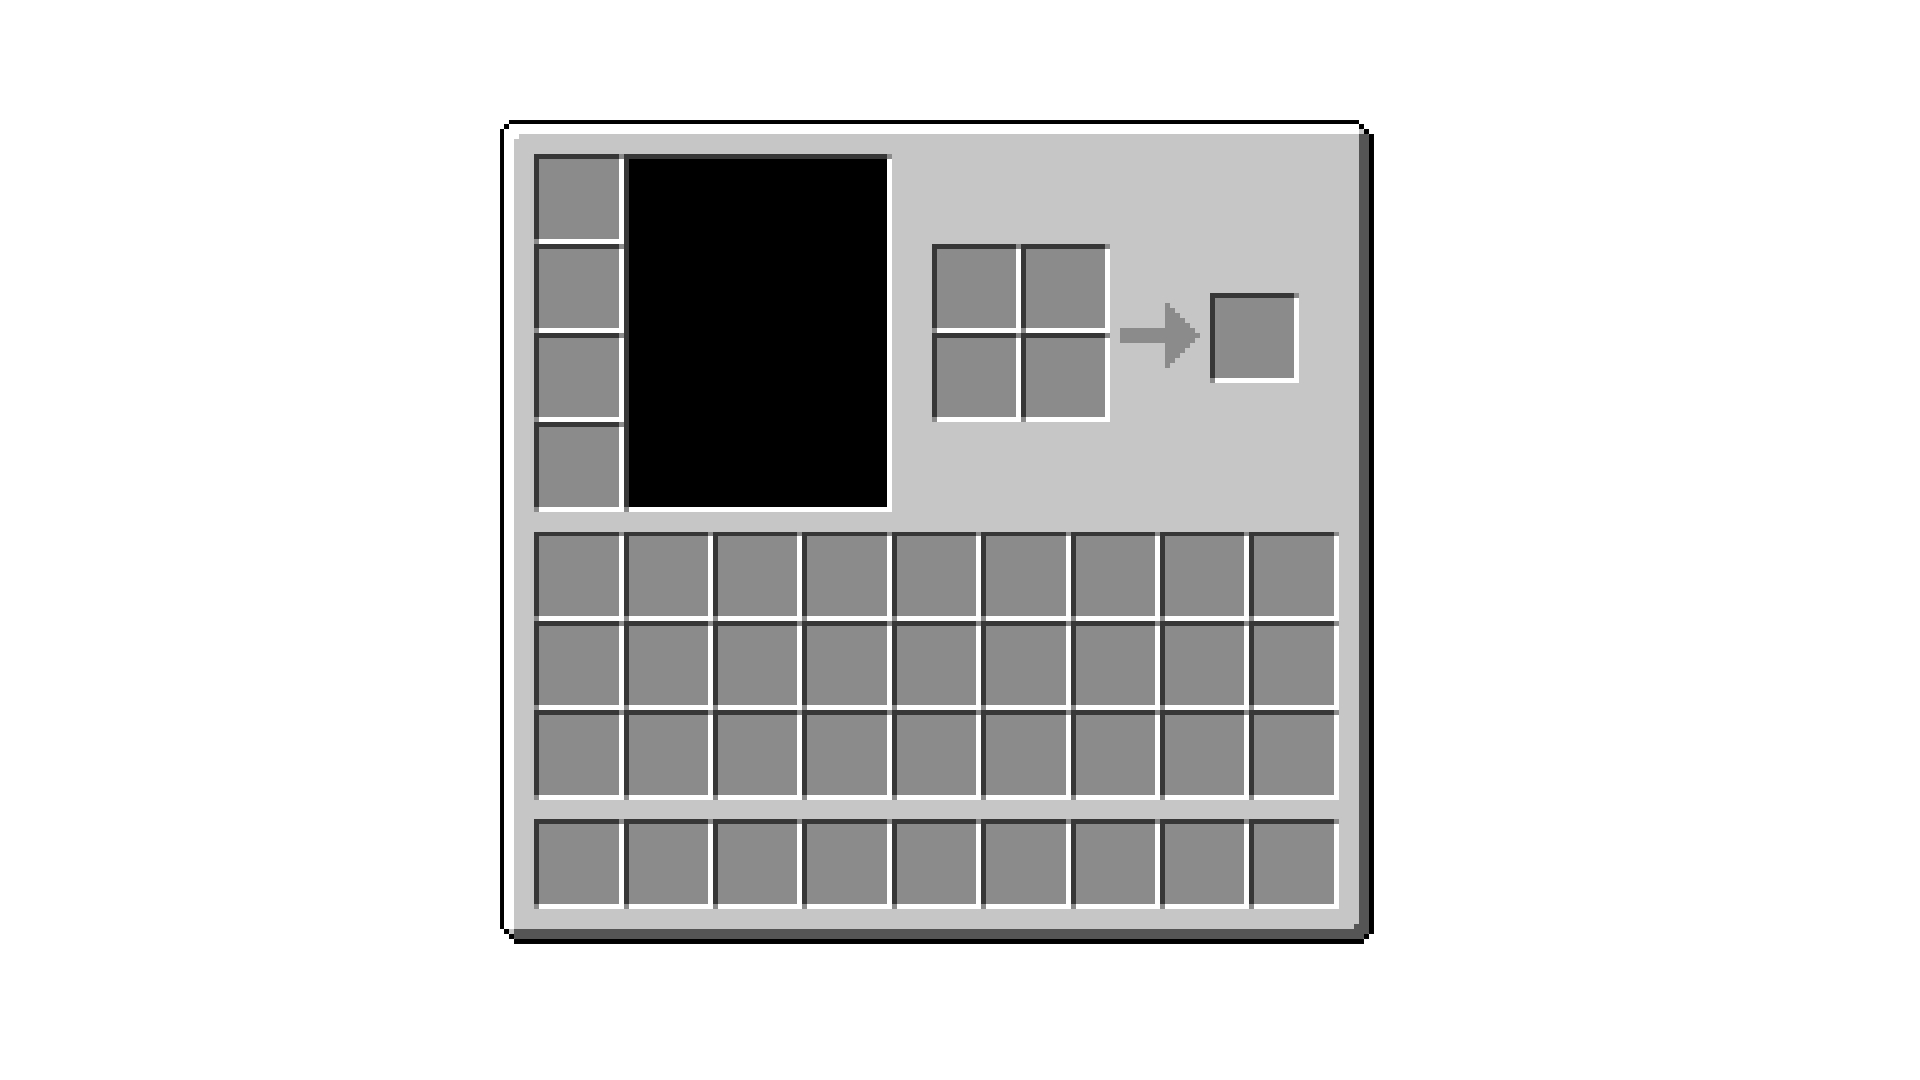
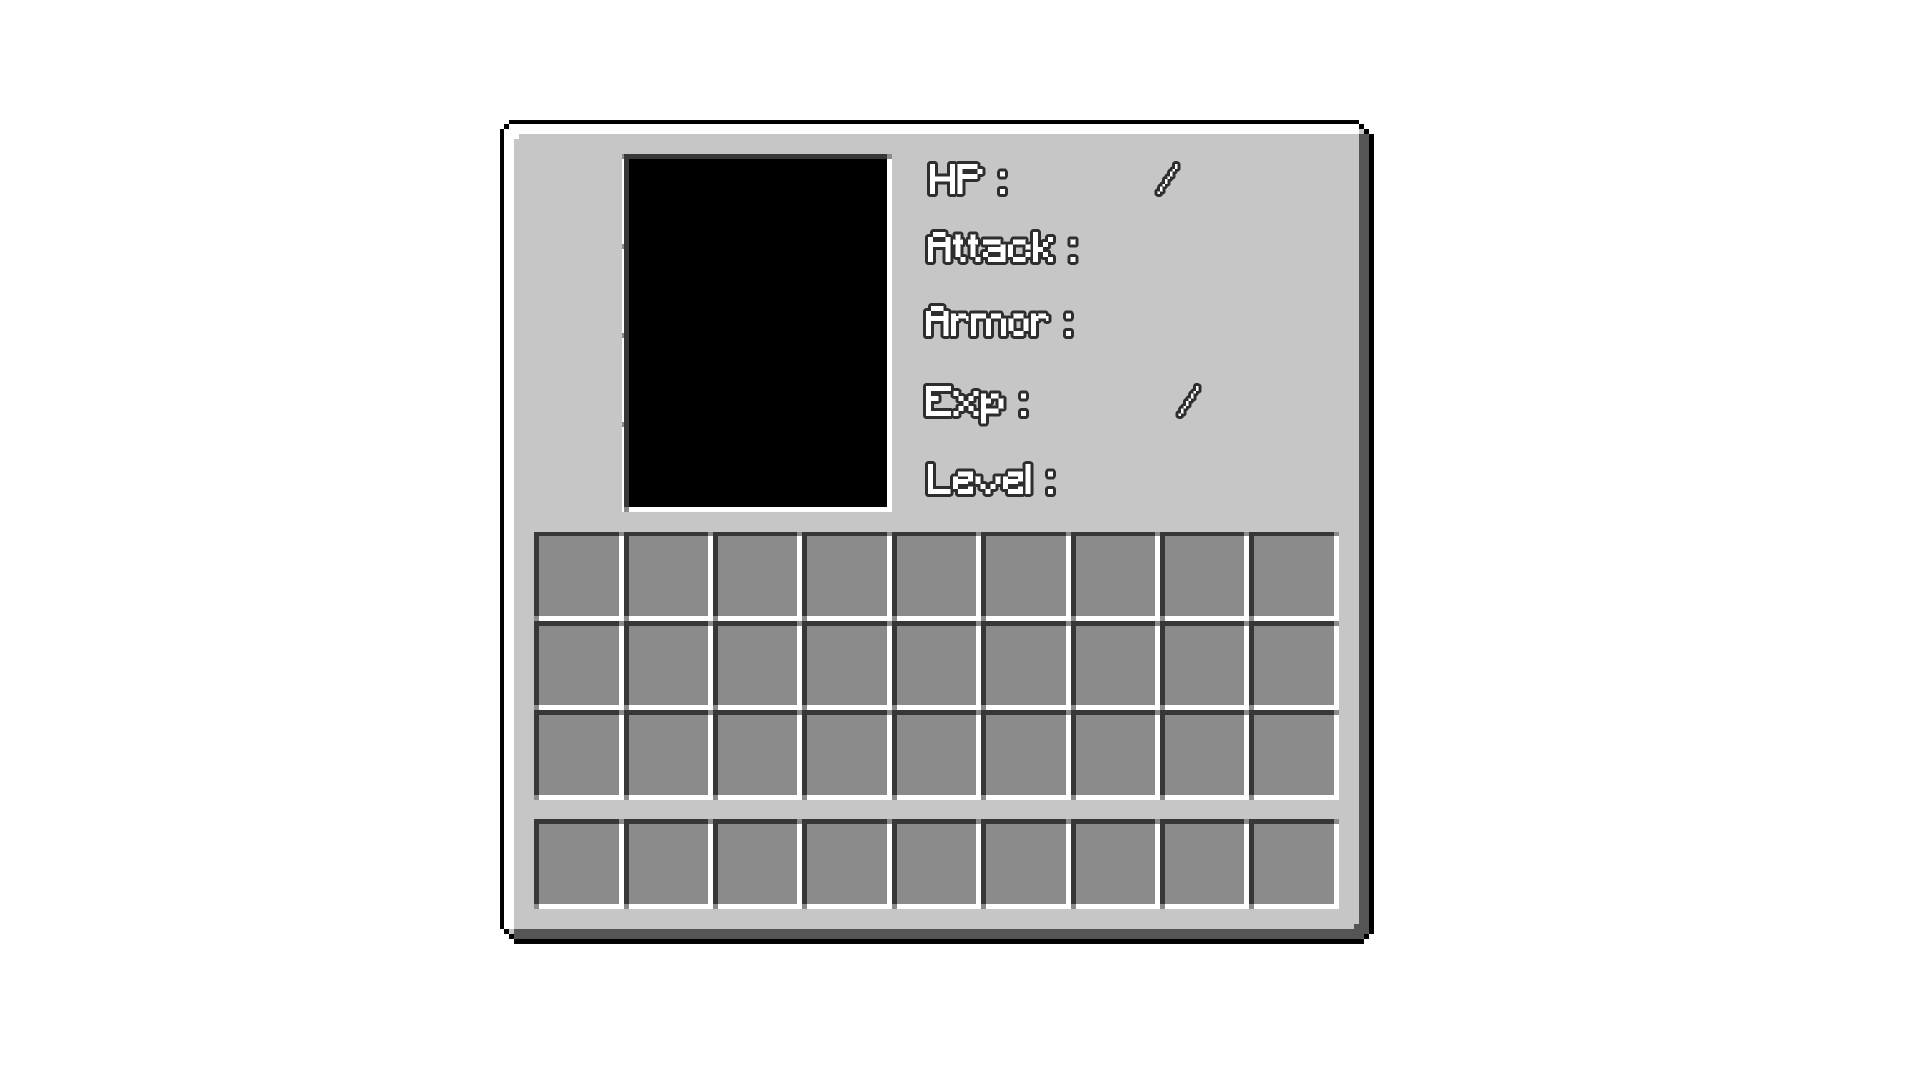
inventory with I, sats doesnt appear yet

diff --git a/src/events.c b/src/events.c
@@ -134,25 +134,6 @@ game_t button_is_clicked(sfRenderWindow *window, game_t game)
     return (game);
 }
 
-game_t analyse_events(sfRenderWindow *window, sfEvent event, game_t game)
-{
-    while (sfRenderWindow_pollEvent(window, &event)) {
-        if (event.type == sfEvtClosed) {
-            close_window(window);
-        }
-        if (event.type == sfEvtMouseButtonPressed) {
-            game = button_is_clicked(window, game);
-        }
-        if (event.key.code == sfKeyEscape){
-            draw_menu_pause(window, game);
-        }
-        if (event.key.code == sfKeyI) {
-            open_inventory(window, game);
-        }
-    }
-    return (game);
-}
-
 game_t analyse_combat_event(sfRenderWindow *window, sfEvent event, game_t game, enemy_t *enemy)
 {
     while (sfRenderWindow_pollEvent(window, &event)) {
@@ -165,6 +146,35 @@ game_t analyse_combat_event(sfRenderWindow *window, sfEvent event, game_t game, 
         }
         if (event.type == sfEvtMouseButtonReleased) {
             game = button_is_released_combat(window, game, enemy, event);
+        }
+    }
+    return (game);
+}
+
+int analyse_inventory_events(sfRenderWindow *window, sfEvent event, int flag)
+{
+    while(sfRenderWindow_pollEvent(window, &event)) {
+        if (event.type == sfEvtKeyPressed && event.key.code == sfKeyI) {
+            flag = 1;
+        }
+    }
+    return (flag);
+}
+
+game_t analyse_events(sfRenderWindow *window, sfEvent event, game_t game)
+{
+    while (sfRenderWindow_pollEvent(window, &event)) {
+        if (event.type == sfEvtClosed) {
+            close_window(window);
+        }
+        if (event.type == sfEvtMouseButtonPressed) {
+            game = button_is_clicked(window, game);
+        }
+        if (event.key.code == sfKeyEscape){
+            draw_menu_pause(window, game);
+        }
+        if (event.type == sfEvtKeyPressed && event.key.code == sfKeyI) {
+            open_inventory(window, game);
         }
     }
     return (game);

diff --git a/src/inventory.c b/src/inventory.c
@@ -21,8 +21,14 @@ void draw_inventory(sfRenderWindow *window, perso_t *perso)
 
 void open_inventory(sfRenderWindow *window, game_t game)
 {
-    sfEvent event;
+    int flag = 0;
+    sfEvent close_event;
+
     while (1) {
         draw_inventory(window, game.perso);
+        flag = analyse_inventory_events(window, close_event, flag);
+        if (flag == 1) {
+            break;
+        }
     }
 }

diff --git a/include/proto.h b/include/proto.h
@@ -95,6 +95,7 @@ void heavy_atk_dmg(sfRenderWindow *window, game_t game, enemy_t *enemy);
 
 /*---------Inventory RPG---------*/
 void open_inventory(sfRenderWindow *window, game_t game);
+int analyse_inventory_events(sfRenderWindow *window, sfEvent event, int flag);
 
 /*---------Destroy RPG-----------*/
 

diff --git a/src/draw.c b/src/draw.c
@@ -43,8 +43,10 @@ void draw_menu_pause(sfRenderWindow *window, game_t game)
         flag = pause_menu_ing(window, event, game, flag);
         if (flag == 1)
             break;
-        if (flag == 2)
+        if (flag == 2) {
             close_window(window);
+            break;
+        }
     }
 }
 
